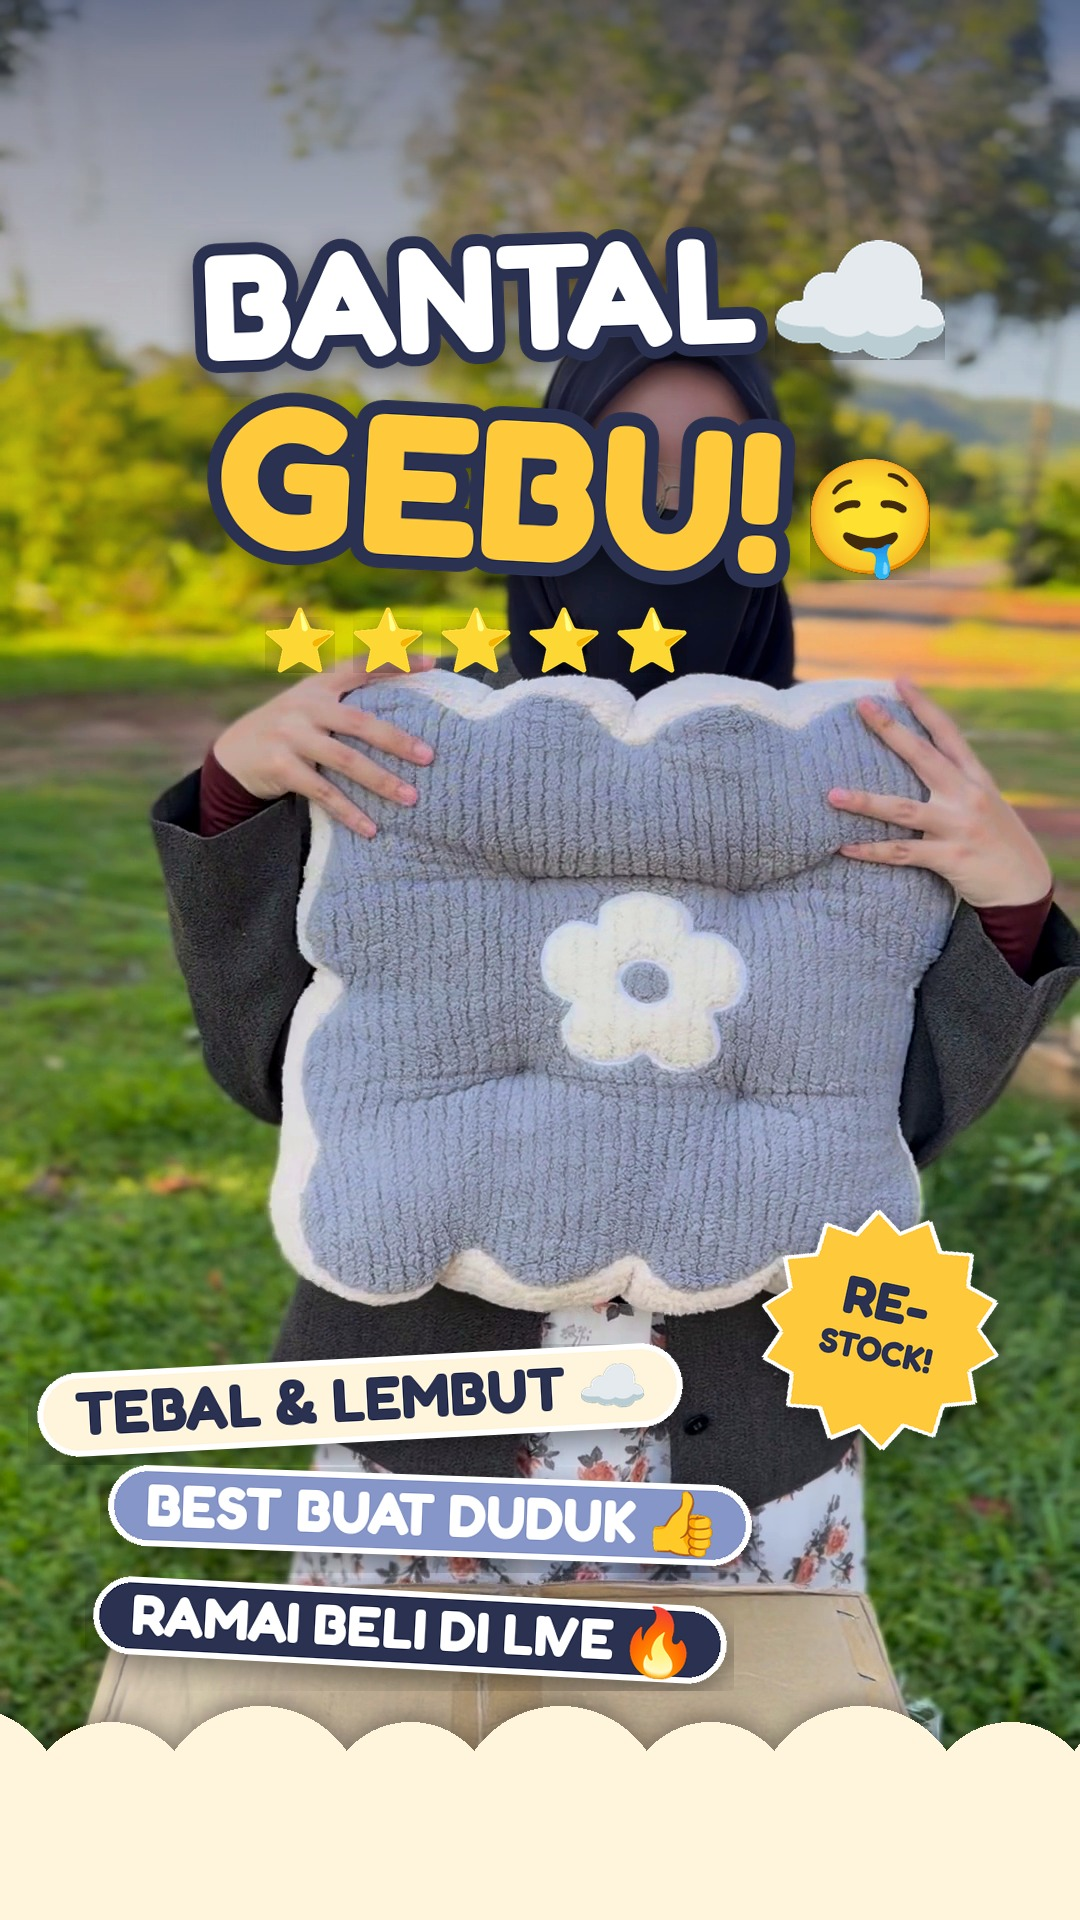
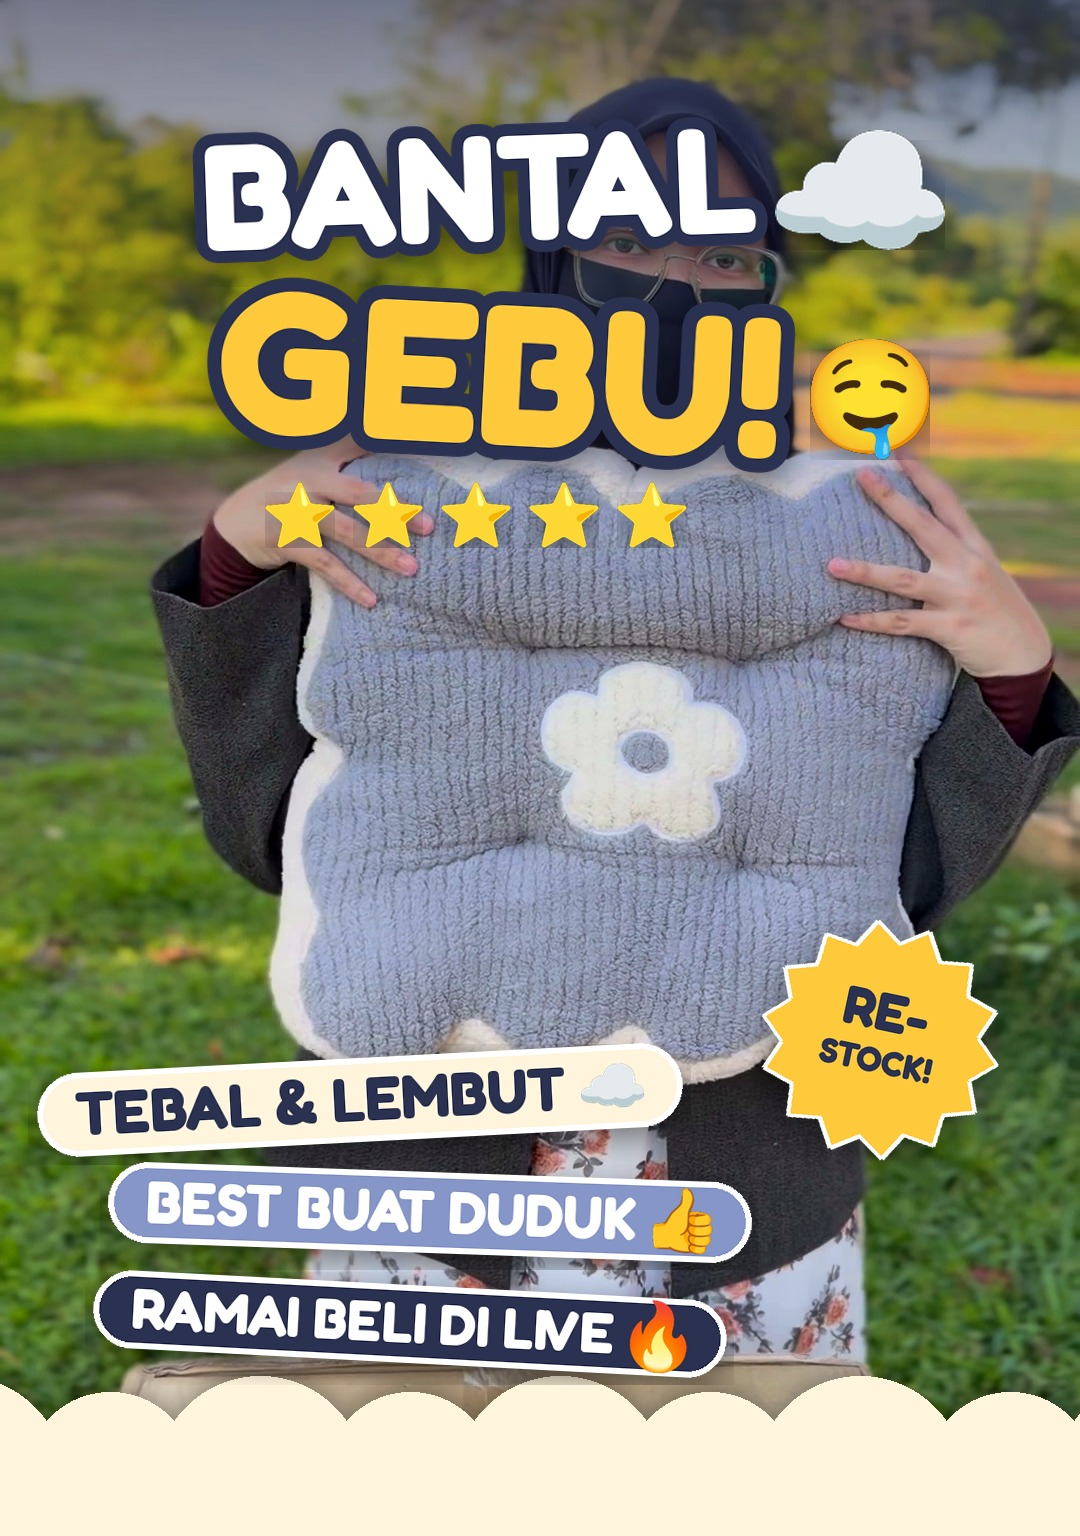
Make bantal gebu cover 20% shorter (1080x1536)
Crop the source frame to 1536px and re-lay out title, stars, badges,
burst and the cloud edge so nothing is cut.

Claude-Session: https://claude.ai/code/session_017ojrZgNnfjnDJsj9Aoh4ye

diff --git a/projects/bantal-awan/cover.py b/projects/bantal-awan/cover.py
@@ -2,7 +2,7 @@
 """TikTok cover (1080x1920) for the grey cloud cushion video.
 
 Usage: python3 cover.py <frame.png> <out.png>
-Key text stays inside the 3:4 profile-grid crop (y 240-1680).
+Canvas is 1080x1536 (20% shorter than 1920); key text stays inside a 3:4 crop (y 48-1488).
 """
 import math
 import os
@@ -14,7 +14,8 @@ SRC, OUT = sys.argv[1:3]
 HERE = os.path.dirname(os.path.abspath(__file__))
 FONT = os.path.join(HERE, "fonts", "Fredoka-Bold.ttf")
 EMOJI = "/usr/share/fonts/truetype/noto/NotoColorEmoji.ttf"
-W, H = 1080, 1920
+W, H = 1080, 1536          # 20% shorter than 9:16 (1920), per request
+SRC_H, CROP_TOP = 1920, 230  # crop window taken from the 1080x1920 frame
 
 SLATE = (43, 49, 80)
 GREYBLUE = (135, 150, 200)
@@ -75,7 +76,8 @@ def paste_center(base, layer, cx, cy):
 
 
 def main():
-    img = Image.open(SRC).convert("RGB").resize((W, H), Image.LANCZOS)
+    img = Image.open(SRC).convert("RGB").resize((W, SRC_H), Image.LANCZOS)
+    img = img.crop((0, CROP_TOP, W, CROP_TOP + H))
     img = ImageEnhance.Color(img).enhance(1.18)
     img = ImageEnhance.Contrast(img).enhance(1.06)
     img = ImageEnhance.Brightness(img).enhance(1.04)
@@ -84,36 +86,36 @@ def main():
     # soft top gradient so the title reads over the sky/trees
     grad = Image.new("RGBA", (W, H))
     gd = ImageDraw.Draw(grad)
-    for y in range(0, 760):
-        a = int(160 * (1 - y / 760) ** 1.6)
+    for y in range(0, 620):
+        a = int(160 * (1 - y / 620) ** 1.6)
         gd.line([(0, y), (W, y)], fill=(*SLATE, a))
     base.alpha_composite(grad)
 
     # cream "cloud" scallops at the bottom, like the cushion's piping
     cloud = Image.new("RGBA", (W, H))
     cd = ImageDraw.Draw(cloud)
-    cd.rectangle((0, 1790, W, H), fill=(*CREAM, 255))
+    cd.rectangle((0, 1460, W, H), fill=(*CREAM, 255))
     for i, x in enumerate(range(-40, W + 120, 150)):
         r = 105 if i % 2 == 0 else 85
-        cd.ellipse((x - r, 1790 - r * 0.8, x + r, 1790 + r * 1.2), fill=(*CREAM, 255))
+        cd.ellipse((x - r, 1460 - r * 0.8, x + r, 1460 + r * 1.2), fill=(*CREAM, 255))
     base.alpha_composite(shadow(cloud, offset=(0, -6), blur=10, alpha=80))
 
     # title
     t1 = shadow(outlined_text("BANTAL", 150, WHITE, SLATE, 12, rot=2))
     t2 = shadow(outlined_text("GEBU!", 200, GOLD, SLATE, 14, rot=-3))
-    paste_center(base, t1, W / 2 - 60, 300)
-    paste_center(base, t2, W / 2 - 40, 490)
-    paste_center(base, shadow(emoji("☁", 170)), 860, 300)
-    paste_center(base, shadow(emoji("🤤", 120)), 870, 520)
+    paste_center(base, t1, W / 2 - 60, 190)
+    paste_center(base, t2, W / 2 - 40, 375)
+    paste_center(base, shadow(emoji("☁", 170)), 860, 190)
+    paste_center(base, shadow(emoji("🤤", 120)), 870, 400)
 
     # star row (customers satisfied)
     for i in range(5):
-        paste_center(base, shadow(emoji("⭐", 70)), 300 + i * 88, 640)
+        paste_center(base, shadow(emoji("⭐", 70)), 300 + i * 88, 515)
 
     # feature badges (bottom, inside the 3:4 crop, left/centre)
-    paste_center(base, shadow(pill("TEBAL & LEMBUT", 60, CREAM, SLATE, "☁", rot=3)), 360, 1400)
-    paste_center(base, shadow(pill("BEST BUAT DUDUK", 58, GREYBLUE, WHITE, "👍", rot=-2)), 430, 1515)
-    paste_center(base, shadow(pill("RAMAI BELI DI LIVE", 56, SLATE, WHITE, "🔥", rot=-3)), 410, 1630)
+    paste_center(base, shadow(pill("TEBAL & LEMBUT", 60, CREAM, SLATE, "☁", rot=3)), 360, 1100)
+    paste_center(base, shadow(pill("BEST BUAT DUDUK", 58, GREYBLUE, WHITE, "👍", rot=-2)), 430, 1212)
+    paste_center(base, shadow(pill("RAMAI BELI DI LIVE", 56, SLATE, WHITE, "🔥", rot=-3)), 410, 1324)
 
     # restock burst
     burst = Image.new("RGBA", (360, 360))
@@ -130,7 +132,7 @@ def main():
         l, t, r, b = f.getbbox(txt)
         bd.text((180 - (r - l) / 2 - l, y - (b - t) / 2 - t), txt, font=f, fill=SLATE)
     burst = shadow(burst.rotate(-12, resample=Image.BICUBIC, expand=True).resize((300, 300), Image.LANCZOS))
-    paste_center(base, burst, 880, 1330)
+    paste_center(base, burst, 880, 1040)
 
     base.convert("RGB").save(OUT, quality=95)
 

diff --git a/projects/bantal-awan/EDIT_PLAN.md b/projects/bantal-awan/EDIT_PLAN.md
@@ -3,7 +3,7 @@
 Source: iPhone, 1080×1920 portrait, HEVC HDR (HLG), 29.97fps, **53.0s**
 Preview v1: **33.1s** (dipotong ~20s), 720×1280, 30fps, SDR
 Final: **33.1s**, 1080×1920, 30fps, H.264 SDR (HLG → bt709), −11.8 LUFS, sudah render
-Cover: `cover.jpg` · Caption & hashtag: `CAPTION.md`
+Cover: `cover.jpg` (1080×1536, 20% lebih pendek) · Caption & hashtag: `CAPTION.md`
 
 ## Safe zone TikTok (baru)
 
@@ -79,5 +79,5 @@ Suara guna rantaian v2 (EQ kejelasan + −11.5 LUFS).
 ```
 python3 edit.py proxy.mp4 transcript.json sfx/ out/                    # preview 720p
 python3 edit.py master1080.mp4 transcript.json sfx/ final/ --final     # final 1080x1920
-python3 cover.py frame_48.4.png cover.jpg                              # cover (frame dari master1080 @48.4s)
+python3 cover.py frame_48.4.png cover.jpg                              # cover 1080x1536 (frame dari master1080 @48.4s)
 ```

diff --git a/projects/bantal-awan/CAPTION.md b/projects/bantal-awan/CAPTION.md
@@ -34,5 +34,5 @@ Restock! Bantal gebu ni tebal & lembut, buat duduk pun the best ☁⭐ Tekan 
 
 ## Cover
 
-`cover.jpg` (1080×1920), frame 48.4s (kusyen depan kamera, bunga putih jelas).
+`cover.jpg` (**1080×1536**, 20% lebih pendek dari 1920 atas permintaan), frame 48.4s (kusyen depan kamera, bunga putih jelas).
 Masa post, pilih **Edit cover → Upload/From gallery** dan pilih `cover.jpg`.
